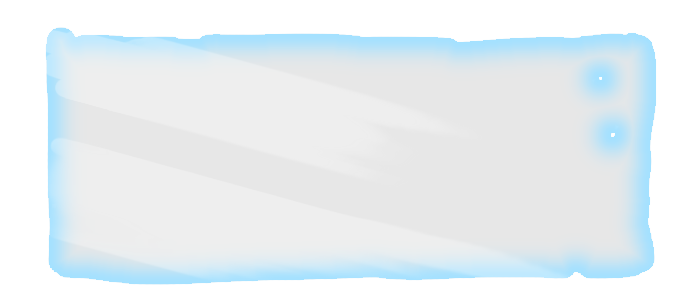
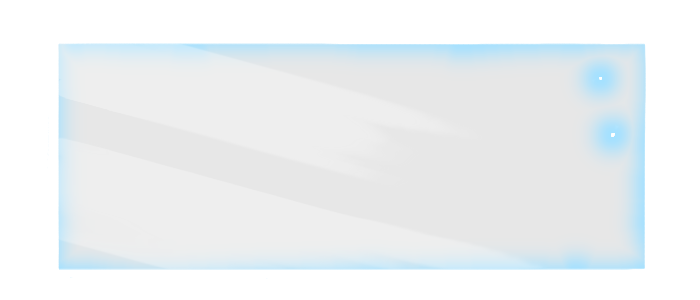
More changes

Changed region(s): [[0.06, 0.09, 0.96, 0.96]]

diff --git a/BananaSplitPlugin/Source/FxGUI.cpp b/BananaSplitPlugin/Source/FxGUI.cpp
@@ -15,21 +15,21 @@ FxGUI::FxGUI(MidiSynthAudioProcessor& p) : audioProcessor(p)
 {
     reverb.setButtonText("Reverb");
     reverb.setClickingTogglesState(true);
-    reverb.setColour(juce::TextButton::buttonColourId, juce::Colour(80, 21, 21));
-    reverb.setColour(juce::TextButton::buttonOnColourId, juce::Colour(202, 32, 32));
+    reverb.setColour(juce::TextButton::buttonColourId, juce::Colours::black);
+    reverb.setColour(juce::TextButton::buttonOnColourId, juce::Colours::green);
     addAndMakeVisible(reverb);
     reverbAttachment = std::make_unique<juce::AudioProcessorValueTreeState::ButtonAttachment>(audioProcessor.apvt, "Reverb", reverb);
     
     chorus.setButtonText("Chorus");
     chorus.setClickingTogglesState(true);
-    chorus.setColour(juce::TextButton::buttonColourId, juce::Colours::darkred);
+    chorus.setColour(juce::TextButton::buttonColourId, juce::Colours::black);
     chorus.setColour(juce::TextButton::buttonOnColourId, juce::Colours::red);
     addAndMakeVisible(chorus);
     chorusAttachment = std::make_unique<juce::AudioProcessorValueTreeState::ButtonAttachment>(audioProcessor.apvt, "Chorus", chorus);
     
     delay.setButtonText("Delay");
     delay.setClickingTogglesState(true);
-    delay.setColour(juce::TextButton::buttonColourId, juce::Colour(154, 154, 0));
+    delay.setColour(juce::TextButton::buttonColourId, juce::Colours::black);
     delay.setColour(juce::TextButton::buttonOnColourId, juce::Colours::yellow);
     delay.setColour(juce::TextButton::textColourOnId, juce::Colours::black);
     addAndMakeVisible(delay);
@@ -37,8 +37,8 @@ FxGUI::FxGUI(MidiSynthAudioProcessor& p) : audioProcessor(p)
     
     distortion.setButtonText("Distortion");
     distortion.setClickingTogglesState(true);
-    distortion.setColour(juce::TextButton::buttonColourId, juce::Colour(170, 74, 122));
-    distortion.setColour(juce::TextButton::buttonOnColourId, juce::Colours::hotpink);
+    distortion.setColour(juce::TextButton::buttonColourId, juce::Colours::black);
+    distortion.setColour(juce::TextButton::buttonOnColourId, juce::Colours::orange);
     addAndMakeVisible(distortion);
     distorAttachment = std::make_unique<juce::AudioProcessorValueTreeState::ButtonAttachment>(audioProcessor.apvt, "Distortion", distortion);
 }

diff --git a/BananaSplitPlugin/Source/PluginEditor.cpp b/BananaSplitPlugin/Source/PluginEditor.cpp
@@ -13,8 +13,9 @@ MidiSynthAudioProcessorEditor::MidiSynthAudioProcessorEditor (MidiSynthAudioProc
     
     addAndMakeVisible(keyboard);
     
-    //glass.setImage(glassImage, juce::RectanglePlacement::stretchToFit);
-    //addAndMakeVisible(glass);
+    glass.setImage(glassImage, juce::RectanglePlacement::stretchToFit);
+    glass.setInterceptsMouseClicks(false, true);
+    addAndMakeVisible(glass);
     
     setSize (700, 400);
 }
@@ -29,5 +30,5 @@ void MidiSynthAudioProcessorEditor::resized()
     controls.   setBounds(84, 62, 386, 169);
     fx.         setBounds(502, 62, 115, 169);
     keyboard.   setBounds(0, 300, 700, 100);
-    glass.      setBounds(0, 0, 700, 300);
+    glass.      setBounds(0, 0, 700, 302);
 }
